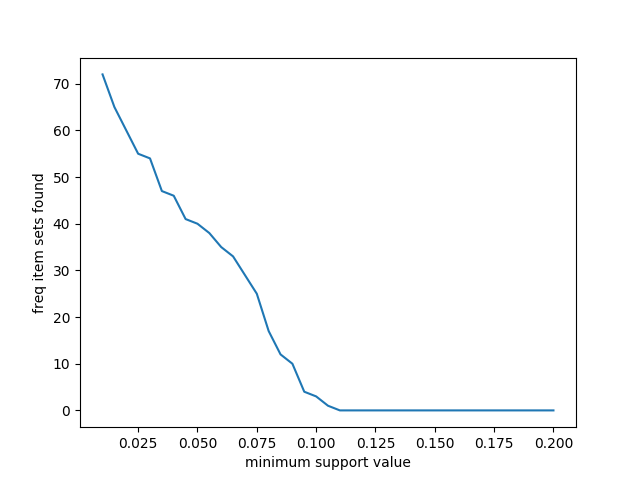
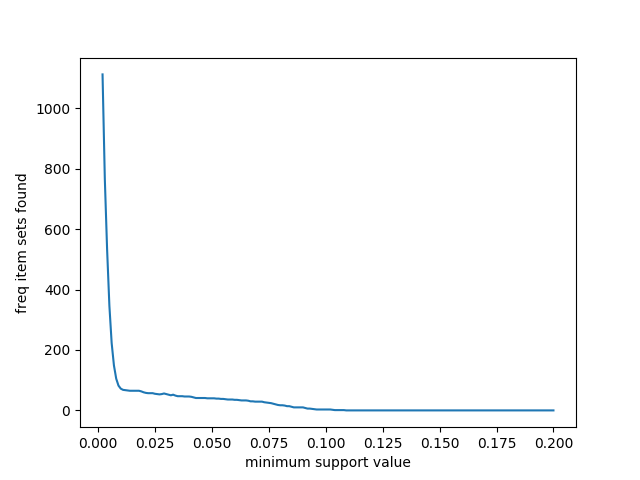
fixed plots

diff --git a/src/apriori.py b/src/apriori.py
@@ -103,7 +103,7 @@ def gen_rules(F, T, min_conf, supports):
     return rules
 
 def plot_supp(filename, dataset, start_supp, end_supp):
-    dx = 0.005
+    dx = 0.001
     supp = start_supp
     items = frozenset(dataset.keys())
     min_supports = []
@@ -117,6 +117,7 @@ def plot_supp(filename, dataset, start_supp, end_supp):
         supp -= dx
         if supp - dx < end_supp:
             break
+    plt.clf()
     plt.plot(min_supports, isets_found)
     plt.xlabel("minimum support value")
     plt.ylabel("freq item sets found")
@@ -124,7 +125,7 @@ def plot_supp(filename, dataset, start_supp, end_supp):
 
 
 def plot_conf(filename, dataset, supp, start_conf, end_conf):
-    dx = 0.0005
+    dx = 0.001
     items = frozenset(dataset.keys())
     conf = start_conf
     min_confs = []
@@ -139,7 +140,7 @@ def plot_conf(filename, dataset, supp, start_conf, end_conf):
         conf -= dx
         if conf + dx < end_conf:
             break
-    pdb.set_trace()
+    plt.clf()
     plt.plot(min_confs, rules_found)
     plt.xlabel("minimum confidence value")
     plt.ylabel("rules found")
@@ -181,7 +182,6 @@ if __name__ == "__main__":
     print("plotting confidences...")
     plot_conf("confidence.png", baskets, min_sup, start_conf, end_conf)
 
-    """
     print("generating rules...")
     supports = {}
     items = frozenset(baskets.keys())
@@ -195,7 +195,6 @@ if __name__ == "__main__":
     print("writing rules...")
     rules_w_conf = [(confidence(baskets, r[0], r[1], supports), r) for r in rules]
     write_named_rules("rules.txt", rules_w_conf, names)
-    """
 
 
 
